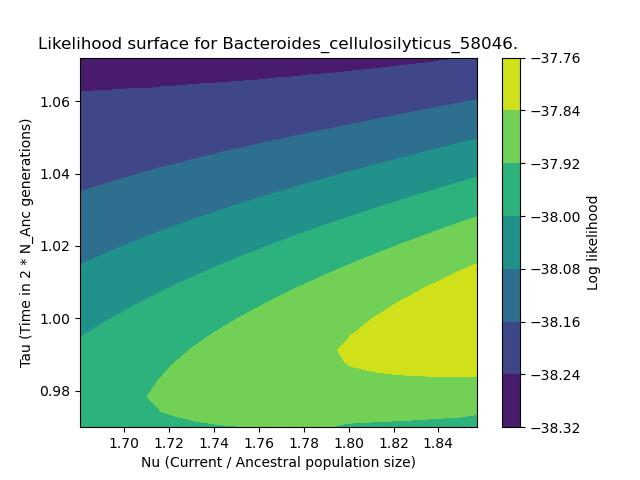
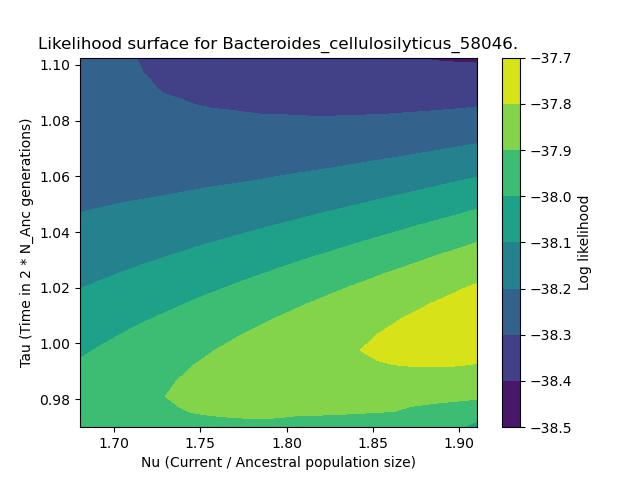
B. cellulosilyticus

diff --git a/Scripts/plot_likelihood.py b/Scripts/plot_likelihood.py
@@ -466,8 +466,8 @@ class PlotLikelihood():
 
                 npts = 25
 
-                x_range = numpy.linspace(x * 0.95, x * 1.05, npts)
-                y_range = numpy.linspace(y * 0.95, y * 1.05, npts)
+                x_range = numpy.linspace(x * 0.95, x * 1.08, npts)
+                y_range = numpy.linspace(y * 0.95, y * 1.08, npts)
 
                 X, Y = numpy.meshgrid(x_range, y_range)
 
